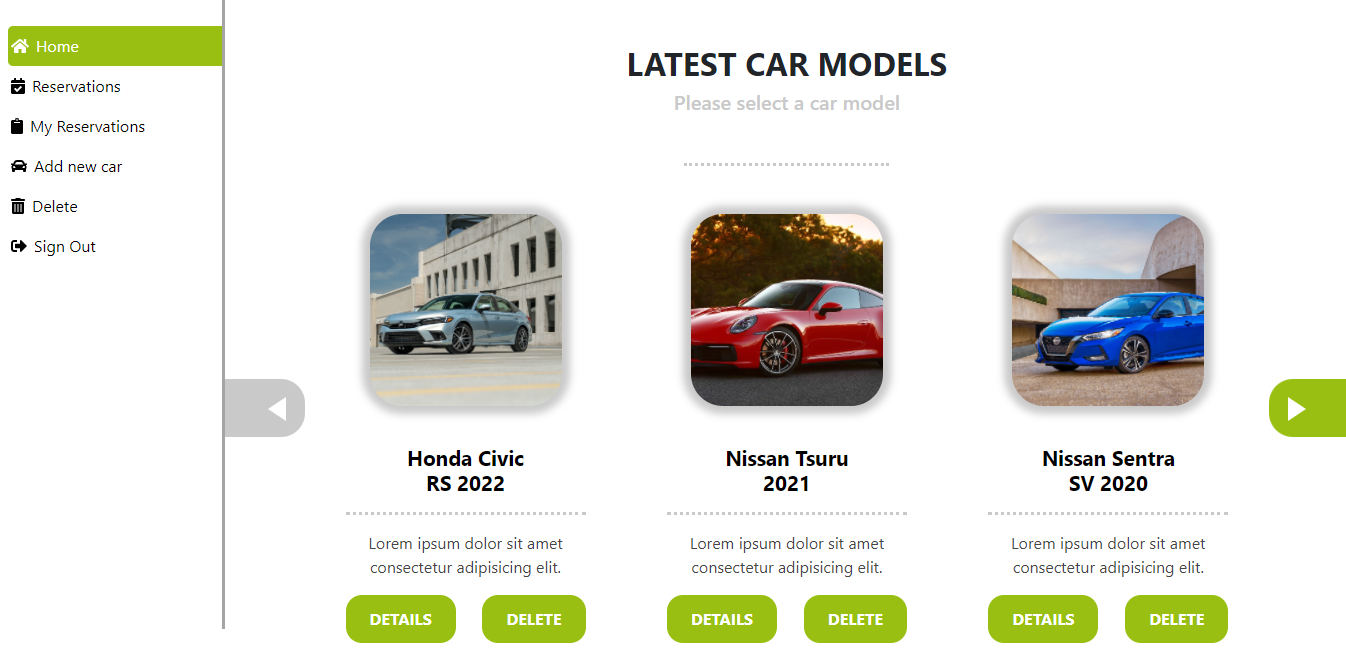
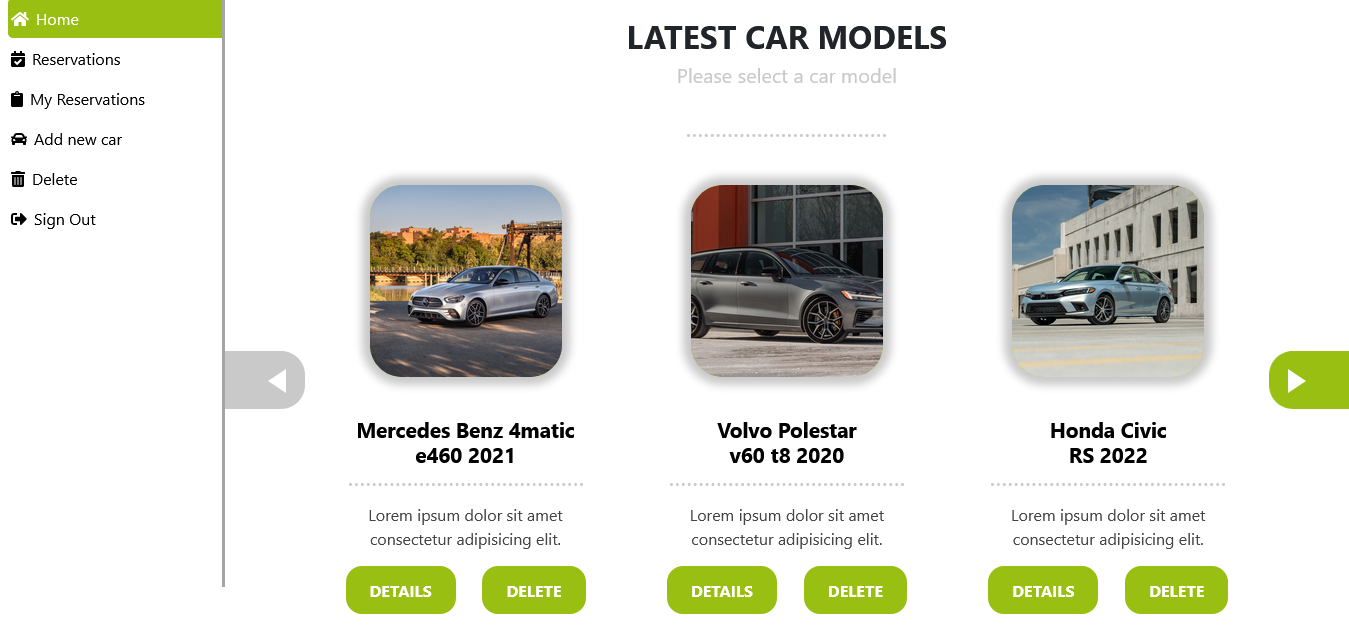
Change cover images for todolist & car reservations

diff --git a/src/App.css b/src/App.css
@@ -17,7 +17,7 @@
 
 img.cover-image {
   width: 100%;
-  height: 15em;
+  height: 18em;
   border-bottom: 1px solid;
 }
 
